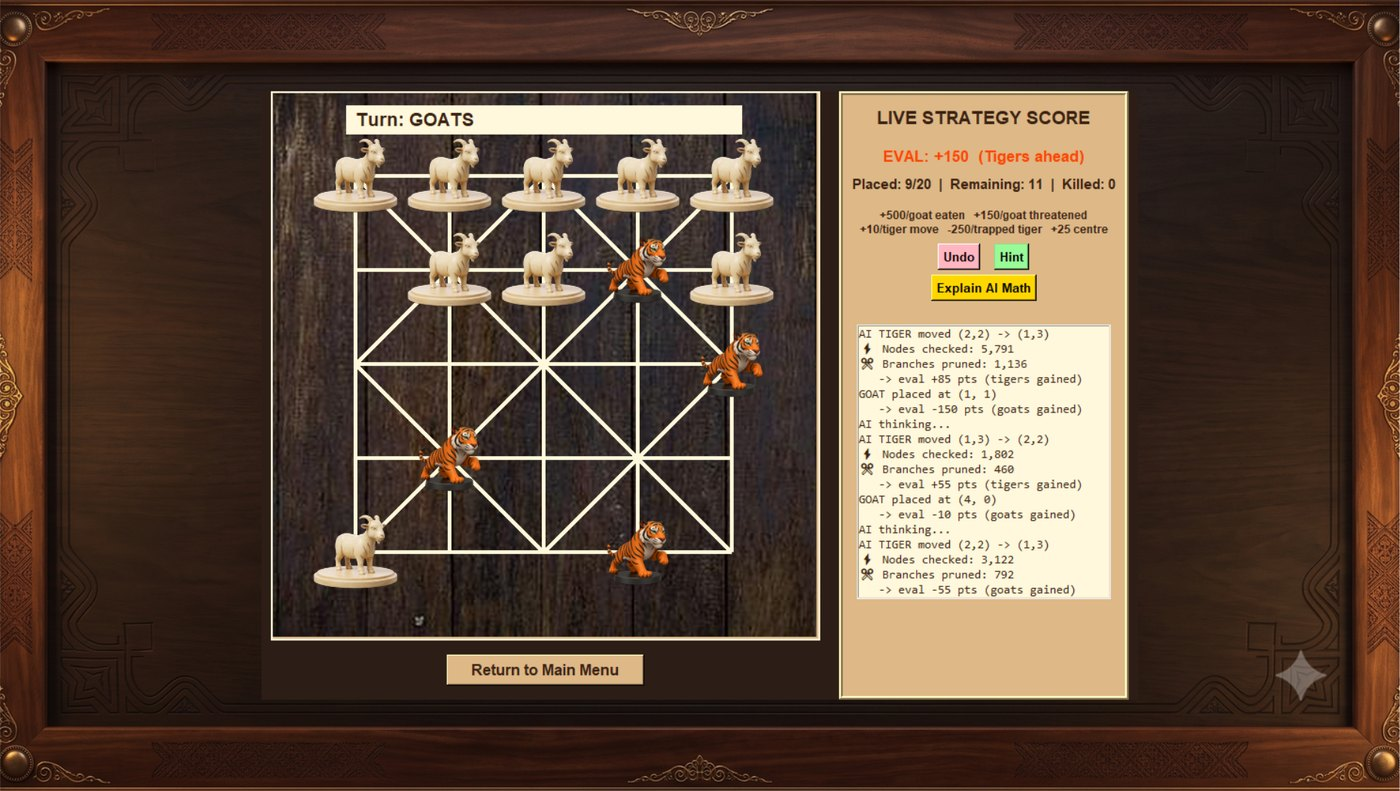
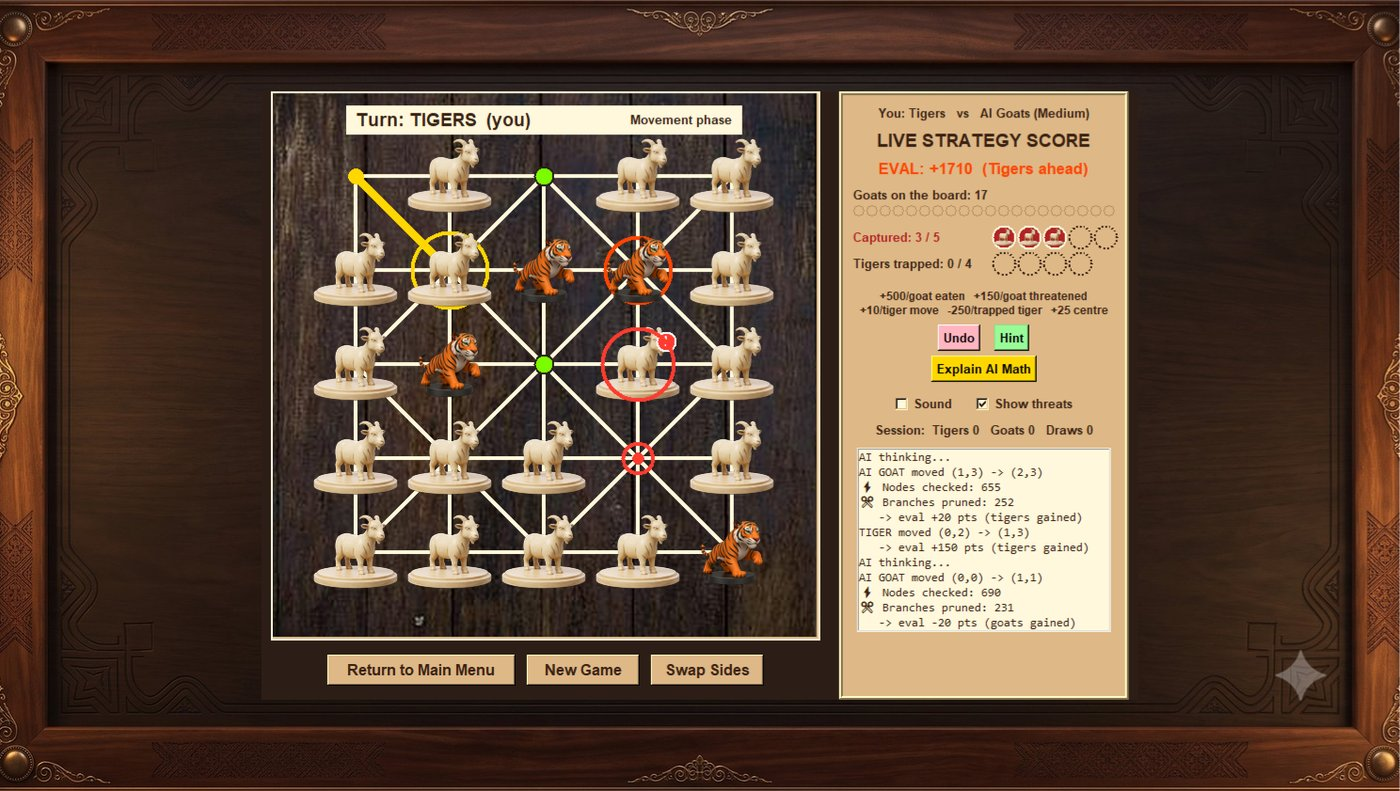
Document the gameplay update and refresh the screenshots
README: features, keyboard shortcuts, the watch-mode draw rule, what the tests cover and how the varied opening and the sound module work. CORRECTIONS.md gains section I. The menu and game screenshots and the demo GIF are captured from the new build; the GIF stores only the pixels that change between frames, which keeps it under 500 KB.

diff --git a/README.md b/README.md
@@ -6,24 +6,39 @@
 
 A desktop version of **Bagh Chal** (Tigers and Goats), the traditional Nepali
 board game, written in Python with Tkinter. Play against another person on the
-same computer or against a minimax AI with alpha-beta pruning.
+same computer, against a minimax AI with alpha-beta pruning, or watch the AI
+play both sides.
 
-![A full game: goats against the AI tigers, ending in a draw by repetition](docs/demo.gif)
+![The AI playing itself: the tigers take two goats, then the goats trap all four tigers](docs/demo.gif)
 
 | Main menu | Mid-game |
 | --- | --- |
-| ![Main menu](docs/menu.jpg) | ![Game in progress with the live strategy score](docs/game.jpg) |
+| ![Main menu](docs/menu.jpg) | ![Playing tigers against the AI: the selected tiger's steps and its capture are marked](docs/game.jpg) |
 
 ## Features
 
-- **Local multiplayer** or **play as Tigers / play as Goats** against the AI
-- Three AI levels: Easy (search depth 2), Medium (depth 4), Hard (depth 6)
+- **Local multiplayer**, **play as Tigers / play as Goats** against the AI, or
+  **watch the AI play itself** (with pause)
+- Three AI levels: Easy (search depth 2), Medium (depth 4), Hard (depth 6).
+  While the goats are being placed the AI chooses at random among equally good
+  moves, so every game opens differently
+- **Move guidance**: dots on the points a selected piece can reach, a target on
+  every capture and a gold trail on the last move
+- **Threat markers**: a red `!` on a goat that can be eaten right now and a
+  `TRAPPED` tag on a tiger that cannot move (can be switched off)
+- Pieces slide, captures flash, a win throws confetti, and every action has a
+  short **sound effect** synthesised at run time, so no audio files are shipped
+  (can be muted)
+- Meters for goats in hand, goats captured (5 wins) and tigers trapped (4 wins)
+- **New Game** and **Swap Sides** without leaving the board, and a running
+  score for the session
 - **Hint** button that asks the AI for the best move on your turn
 - **Undo** (against the AI it takes back the reply and your move together)
 - **Live strategy score** and an **Explain AI Math** window that shows the exact
   heuristic terms the search uses
 - Move log with node and pruning counts for every AI move
 - Threefold-repetition draw rule
+- Keyboard: `Ctrl+Z` undo, `H` hint, `M` sound on/off, `Esc` put the piece down
 
 ## Quick start
 
@@ -46,8 +61,11 @@ python -m pytest
 
 The suite covers the rules engine (placement, moves, captures, win conditions,
 threefold repetition, undo, simulate/undo round trips on thousands of random
-positions) and the AI (move legality at every depth, capture preference,
-heuristic consistency, a regression for a past freeze, and self-play). GitHub
+positions, the threat and trap queries behind the board markers), the AI (move
+legality at every depth, capture preference, heuristic consistency, a
+regression for a past freeze, self-play, and a check that the randomised choice
+only ever plays a move scored exactly as high as the best one) and the sound
+synthesis (valid WAV data that neither clips nor clicks). GitHub
 Actions runs it on Python 3.10 to 3.13 for every push, then builds the Windows
 executable with PyInstaller.
 
@@ -59,10 +77,18 @@ executable with PyInstaller.
   the position counts for the repetition rule.
 - `ai.py` is a minimax search with alpha-beta pruning. Captures are searched
   first for tigers and edge placements first for goats, which improves cutoffs.
-  Terminal scores carry the remaining depth so a nearer win is preferred.
-- `gui.py` draws the board on a Tkinter canvas and runs the AI through
-  `root.after`, so there is only ever one pending AI job and it is cancelled on
-  Undo or on returning to the menu.
+  Terminal scores carry the remaining depth so a nearer win is preferred. For
+  variety, during the placement phase the root search keeps every move tied for
+  the best score (each one is searched with a window one point below the best,
+  so a tie is exact) and picks one at random. After placement it is
+  deterministic again, so level endings repeat and end by the threefold rule.
+- `gui.py` draws the board on a Tkinter canvas. Every timed job (the AI's move,
+  the frames of a sliding piece, the confetti) goes through one wrapper around
+  `root.after`, so all of them are cancelled together on Undo, New Game or on
+  returning to the menu.
+- `sounds.py` builds each effect from a few decaying sine notes, writes it once
+  to a WAV in the temp folder and plays it through `winsound`. On systems
+  without `winsound` the game is simply silent.
 
 ## Build the Windows .exe
 
@@ -80,7 +106,8 @@ automatically.
 | Path | Purpose |
 | --- | --- |
 | `main.py` | Main menu, difficulty selection, rules window, program entry point |
-| `gui.py` | Tkinter board, click handling, Undo / Hint / Explain, move log |
+| `gui.py` | Tkinter board, markers, animation, Undo / Hint / Explain, move log |
+| `sounds.py` | Sound effects synthesised at run time |
 | `board_logic.py` | Rules engine: moves, jumps, phases, win conditions, undo stack |
 | `ai.py` | Minimax with alpha-beta pruning and the evaluation heuristic |
 | `tests/` | pytest suite for the engine and the AI |
@@ -100,6 +127,8 @@ automatically.
 - **Tigers win** by capturing 5 goats, or if the goats have no legal move.
 - **Goats win** by trapping all four tigers so none can move.
 - The same position occurring three times is a draw.
+- Watch mode only: 100 moves in a row without a capture are called a draw,
+  because nobody is at the board to agree one.
 
 ## How the AI scores a position
 

diff --git a/CORRECTIONS.md b/CORRECTIONS.md
@@ -3,7 +3,8 @@
 Line numbers refer to the ORIGINAL files. Every item below was reproduced on the
 original code first, then re-tested on the patched code (logic tests, 5,000
 random boards, AI self-play, and the real Tk window driven under a virtual
-display). Section H lists a later follow-up pass.
+display). Section H lists a later follow-up pass, section I the gameplay
+additions made after it.
 
 ## A. Game-breaking
 
@@ -142,3 +143,46 @@ whenever `keep_aspect` is False.
 The goat win for four trapped tigers is now judged on the tigers' turn only, as
 in tournament play. The AI search also counts repetitions for simulated moves, so
 a side that is ahead no longer shuttles into a draw it could not see.
+
+## I. Gameplay additions (11 Nov 2026)
+
+### I1. Board guidance — `gui.py`, `board_logic.py`
+Selecting a piece shows its destinations (`legal_moves_from`): green dots for
+steps, a red target plus a ring on the victim for captures. The last move leaves
+a gold trail. With "Show threats" ticked, goats that can be captured right now
+(`threatened_goats`) carry a red `!` and tigers with no move (`trapped_tigers`)
+a TRAPPED tag. Human moves are now matched against the generated legal moves and
+played through `apply_move`, the same path the AI uses.
+
+### I2. Animation, sound, result screen — `gui.py`, `sounds.py`
+Moves slide, a captured goat disappears as the tiger passes over it, a win
+throws confetti. Sounds are synthesised in `sounds.py` (no audio files) and can
+be muted. All timed jobs go through `later()` so `cancel_all()` stops every one
+of them on Undo, New Game and Return to Main Menu.
+
+### I3. Replay value — `ai.py`, `gui.py`, `main.py`
+- `BaghChalAI(rng=...)` picks at random among the moves tied for the best
+  score while the goats are being placed, so every game opens differently. Each
+  root move is searched with a window one point below the best, so a tie is
+  exact and a worse move is never played. Without an rng (tests, Hint) the
+  answer is deterministic as before.
+- The randomness stops once all 20 goats are down. Tried for the whole game
+  first: random shuffling kept dodging the threefold repetition, and 3 of 6
+  Medium self-play games were still running after 300 moves.
+- New Game and Swap Sides on the game screen, a session score, a Watch AI vs AI
+  mode with Pause, meters for goats in hand / captured / tigers trapped, and
+  keyboard shortcuts (Ctrl+Z, H, M, Esc).
+- Watch mode calls a draw after 100 moves in a row without a capture
+  (`WATCH_DRAW_AFTER` in `gui.py`). The side that is ahead steers clear of the
+  repetition draw, so some AI-against-AI endings never finished. In 24 Medium
+  self-play games the limit stopped 8, of which 3 would have been won later.
+  Games with a human are not affected.
+
+### I4. Undo on an untouched game stalled the AI — `gui.py` `undo_action`
+- Was: playing tigers, clicking Undo before the AI goat's opening placement
+  cancelled the pending AI job and returned early, so the AI never moved.
+- Now: Undo always ends by rescheduling the AI when it is the AI's turn.
+
+### I5. Long log lines were cut off
+Capture and draw messages were wider than the log list. Shortened to fit
+("TIGER captured (1,1) -> (1,3)").
